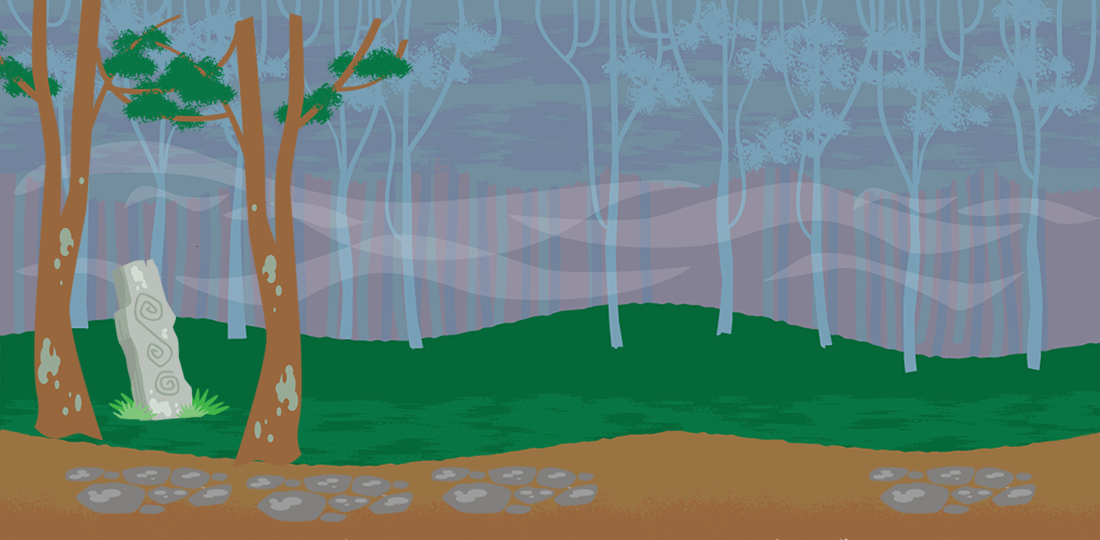
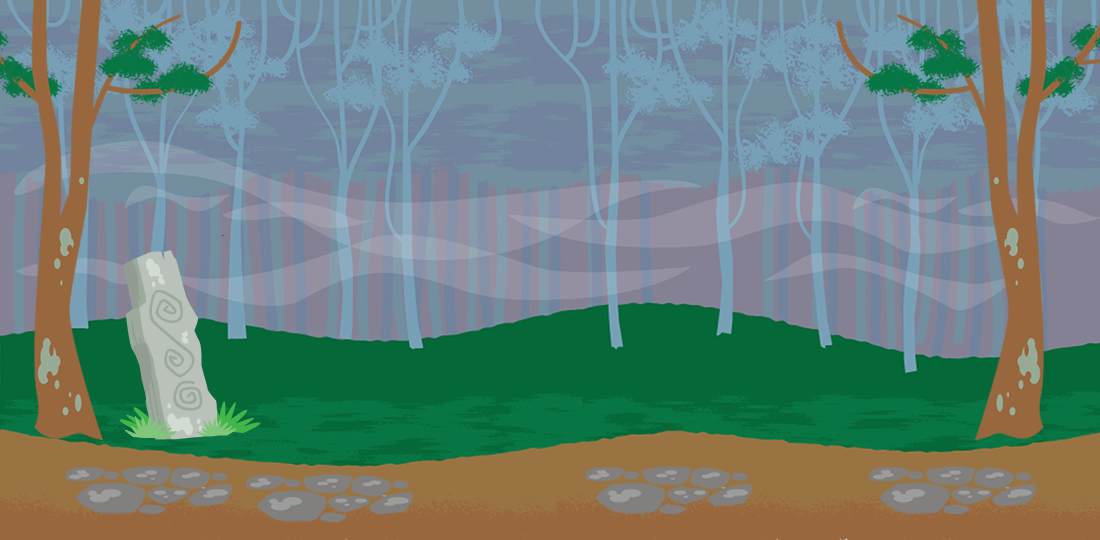
Add wood stage and city stage with transition

diff --git a/DreamLand/DreamLand/DreamLand/Scenes/Scene.cs b/DreamLand/DreamLand/DreamLand/Scenes/Scene.cs
@@ -1,61 +1,34 @@
 using System;
 using System.Collections.Generic;
-using DreamLand.GameObject;
+using System.Linq;
+using System.Text;
 using Microsoft.Xna.Framework;
 using Microsoft.Xna.Framework.Graphics;
 
 namespace DreamLand.Scenes {
-    class Scene
+    abstract class Scene
     {
-        public List<Texture2D> Stages = new List<Texture2D>();
-        private int LEFT_BORDER = 0;
-        private int RIGHT_BORDER = 800;
+        private Texture2D _texture2D;
 
-        Rectangle sourceRect = new Rectangle(0, 0, 800, 600);
-        Rectangle destionationRect = new Rectangle(0, 0, 800, 540);
-        private Texture2D currentStage;
-
-        private int currentFrame = 0;
-
-        public Scene()
+        public Texture2D Sprite
         {
-            //Initalize();
+            get { return _texture2D;}
+            set { _texture2D = value; }
         }
 
-        public void Initalize()
+        public virtual void Init()
         {
-            currentStage = Stages[0];
+            
         }
 
-
-        public void Update(GameTime gameTime, Player player)
+        public virtual void Update(GameTime gameTime)
         {
-            if (player.Position.X > RIGHT_BORDER) {
-                player.Position = new Vector2(100, 350);
-                sourceRect.X += 600;
-
-                if (sourceRect.X > Stages[currentFrame].Width && currentFrame < Stages.Count)
-                {
-                    currentFrame++;
-                    sourceRect.X = 0;
-                }
-                    
-            }
-
-            if (player.Position.X < LEFT_BORDER && currentFrame > 0) {
-                player.Position = new Vector2(600, 350);
-                sourceRect.X -= 600;
-
-                //if (sourceRect.X > Stages[currentFrame].Width)
-                //    currentFrame--;
-            }
-
-            currentStage = Stages[currentFrame];
+            
         }
 
-        public void Draw(SpriteBatch spriteBatch)
+        public virtual void Draw(SpriteBatch spriteBatch)
         {
-            spriteBatch.Draw(currentStage, destionationRect, sourceRect, Color.White);
+            
         }
     }
 }

diff --git a/DreamLand/DreamLand/DreamLand/Scenes/SceneTransition.cs b/DreamLand/DreamLand/DreamLand/Scenes/SceneTransition.cs
@@ -1,0 +1,68 @@
+using System;
+using System.Collections.Generic;
+using DreamLand.GameObject;
+using Microsoft.Xna.Framework;
+using Microsoft.Xna.Framework.Graphics;
+
+namespace DreamLand.Scenes {
+    class SceneTransition
+    {
+        public List<Scene> Scenes = new List<Scene>(); 
+        private static int LEFT_BORDER = 0;
+        private static int RIGHT_BORDER = 800;
+        private static int SCENE_WIDTH = 800;
+
+        Rectangle _sourceRect = new Rectangle(0, 0, SCENE_WIDTH, 600);
+        Rectangle _destionationRect = new Rectangle(0, 0, SCENE_WIDTH, 540);
+        private Texture2D _currentSprite;
+        private int _currentScene = 0;
+
+        public SceneTransition()
+        {
+            //Initalize();
+        }
+
+        public void Initalize()
+        {
+            _currentSprite = Scenes[0].Sprite;
+            Scenes[0].Init();
+        }
+
+
+        public void Update(GameTime gameTime, Player player)
+        {
+   
+            if (player.Position.X > RIGHT_BORDER) {
+
+                player.Position = new Vector2(100, 350);
+                _sourceRect.X += SCENE_WIDTH;
+
+                if (_sourceRect.X >= Scenes[_currentScene].Sprite.Width && _currentScene < Scenes.Count)
+                {
+                    _currentScene++;
+                    _sourceRect.X = 0;
+                }      
+            }
+
+            if (player.Position.X < LEFT_BORDER)
+            {
+                player.Position = new Vector2(600, 350);
+                _sourceRect.X -= SCENE_WIDTH;
+
+                if (_sourceRect.X < 0 && _currentScene > 0) {
+                    _currentScene--;
+                    _sourceRect.X = SCENE_WIDTH;
+                }
+            }
+
+            _currentSprite = Scenes[_currentScene].Sprite;
+            Scenes[_currentScene].Update(gameTime);
+        }
+
+        public void Draw(SpriteBatch spriteBatch)
+        {
+            spriteBatch.Draw(_currentSprite, _destionationRect, _sourceRect, Color.White);
+            Scenes[_currentScene].Draw(spriteBatch);
+        }
+    }
+}

diff --git a/DreamLand/DreamLand/DreamLand/Game1.cs b/DreamLand/DreamLand/DreamLand/Game1.cs
@@ -27,7 +27,7 @@ namespace DreamLand
         private Enemy enemy;
         Texture2D background;
 
-        Scene intoTheWoods = new Scene();
+        SceneTransition World = new SceneTransition();
         CombatEngine combatEngine = new CombatEngine(); 
 
         public Game1()
@@ -63,11 +63,20 @@ namespace DreamLand
             Texture2D playerSprite = Content.Load<Texture2D>("Girl");
             Texture2D enemySprite = Content.Load<Texture2D>("Boss Dragon");
 
-            intoTheWoods.Stages.Add(Content.Load<Texture2D>("woods01"));
-            intoTheWoods.Stages.Add(Content.Load<Texture2D>("woods01"));
-            intoTheWoods.Stages.Add(Content.Load<Texture2D>("woods01"));
+            World.Scenes.Add(new Wood01()
+            {
+                Sprite = Content.Load<Texture2D>("wood 01")
+            });
 
-            intoTheWoods.Initalize();
+            World.Scenes.Add(new Wood02() {
+                Sprite = Content.Load<Texture2D>("wood 02")
+            });
+
+            World.Scenes.Add(new Wood01() {
+                Sprite = Content.Load<Texture2D>("Background")
+            });
+
+            World.Initalize();
             player = new Player(new Sprite(playerSprite), 
                 new Vector2(100, 360));
 
@@ -98,7 +107,7 @@ namespace DreamLand
                 this.Exit();
 
             // TODO: Add your update logic here
-            intoTheWoods.Update(gameTime, player);
+            World.Update(gameTime, player);
 
             player.Update(gameTime);
             enemy.Update(gameTime);
@@ -120,7 +129,7 @@ namespace DreamLand
             spriteBatch.Begin();
 
            // spriteBatch.Draw(background, destionationRect, sourceRect, Color.White);
-            intoTheWoods.Draw(spriteBatch);
+            World.Draw(spriteBatch);
             enemy.Draw(spriteBatch);
             player.Draw(spriteBatch);
 

diff --git a/DreamLand/DreamLand/DreamLand/Scenes/Wood01.cs b/DreamLand/DreamLand/DreamLand/Scenes/Wood01.cs
@@ -1,0 +1,23 @@
+using System;
+using System.Collections.Generic;
+using System.Linq;
+using System.Text;
+using Microsoft.Xna.Framework;
+using Microsoft.Xna.Framework.Graphics;
+
+namespace DreamLand.Scenes {
+    class Wood01 : Scene {
+
+        public void Init() {
+
+        }
+
+        public void Update(GameTime gameTime) {
+
+        }
+
+        public void Draw(SpriteBatch spriteBatch) {
+
+        }
+    }
+}

diff --git a/DreamLand/DreamLand/DreamLand/Scenes/Wood02.cs b/DreamLand/DreamLand/DreamLand/Scenes/Wood02.cs
@@ -1,0 +1,22 @@
+using System;
+using System.Collections.Generic;
+using System.Linq;
+using System.Text;
+using Microsoft.Xna.Framework;
+using Microsoft.Xna.Framework.Graphics;
+
+namespace DreamLand.Scenes {
+    class Wood02 : Scene {
+        public void Init() {
+
+        }
+
+        public void Update(GameTime gameTime) {
+
+        }
+
+        public void Draw(SpriteBatch spriteBatch) {
+
+        }
+    }
+}
